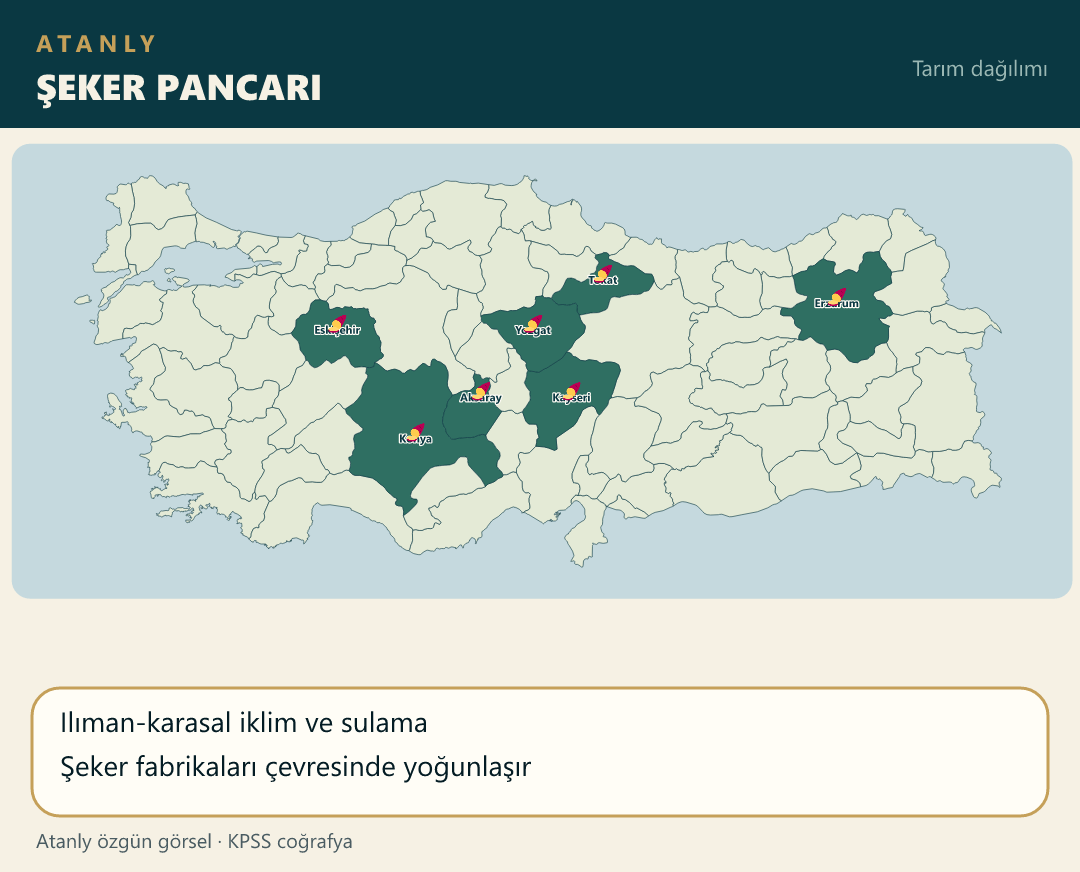
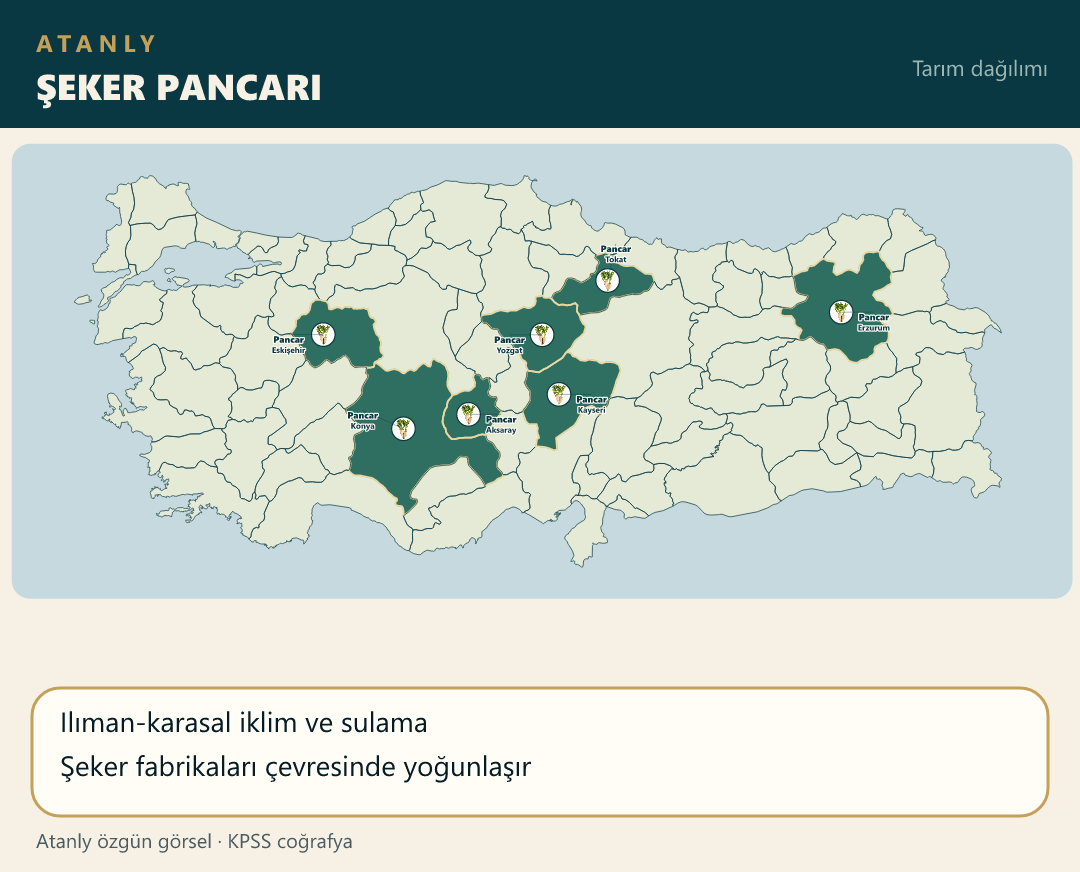
Place the sugar beet photo on the production provinces' land-center pins.

diff --git a/scripts/build-atanly-maps.js b/scripts/build-atanly-maps.js
@@ -646,7 +646,17 @@ function main() {
             ],
             facts: ["Serin ve yüksek yerlerde verim artar", "Niğde–Nevşehir öne çıkar"] },
         { file: "arpa.png", title: "ARPA ÜRETİMİ", urun: "Arpa", iller: ["Konya", "Ankara", "Şanlıurfa", "Kayseri", "Yozgat", "Kırşehir"], facts: ["Buğdaya göre daha kurak koşullara dayanır", "Hayvancılık yemi olarak da önemlidir"] },
-        { file: "seker_pancar.png", title: "ŞEKER PANCARI", iller: ["Konya", "Eskişehir", "Aksaray", "Yozgat", "Tokat", "Erzurum", "Kayseri"], facts: ["Ilıman-karasal iklim ve sulama", "Şeker fabrikaları çevresinde yoğunlaşır"] },
+        { file: "seker_pancar.png", title: "ŞEKER PANCARI", urun: "Pancar",
+            noktalar: [
+                { il: "Konya", ldx: -40, ldy: -10 },
+                { il: "Eskişehir", ldx: -34, ldy: 8 },
+                { il: "Aksaray", ldx: 32, ldy: 8 },
+                { il: "Yozgat", ldx: -32, ldy: 8 },
+                { il: "Tokat", ldx: 8, ldy: -28 },
+                { il: "Erzurum", ldx: 32, ldy: 8 },
+                { il: "Kayseri", ldx: 32, ldy: 8 }
+            ],
+            facts: ["Ilıman-karasal iklim ve sulama", "Şeker fabrikaları çevresinde yoğunlaşır"] },
         { file: "hashas.png", title: "HAŞHAŞ ÜRETİMİ", urun: "Haşhaş",
             noktalar: [
                 { il: "Kütahya", ilce: "Gediz", ldx: 8, ldy: -30 },

diff --git a/notlar/cografya-19-not.js b/notlar/cografya-19-not.js
@@ -2,7 +2,7 @@
 (function () {
     function harita(src, alt) {
         return '<div class="mt-4 overflow-hidden rounded-xl border border-blue-200 dark:border-blue-700/50 bg-white dark:bg-slate-800 p-2">' +
-            '<img src="./src/img/' + src + '?v=34" alt="' + alt + ' Haritası" class="w-full h-auto rounded-lg object-contain" loading="lazy">' +
+            '<img src="./src/img/' + src + '?v=35" alt="' + alt + ' Haritası" class="w-full h-auto rounded-lg object-contain" loading="lazy">' +
             "</div>";
     }
 

diff --git a/index.html b/index.html
@@ -117,7 +117,7 @@
     <script src="notlar/cografya-16-not.js?v=3"></script>
     <script src="notlar/cografya-17-not.js?v=3"></script>
     <script src="notlar/cografya-18-not.js?v=18"></script>
-    <script src="notlar/cografya-19-not.js?v=30"></script>
+    <script src="notlar/cografya-19-not.js?v=31"></script>
     <script src="notlar/cografya-20-not.js?v=1"></script>
     <script src="notlar/cografya-21-not.js?v=32"></script>
     <script src="notlar/cografya-22-not.js?v=1"></script>
